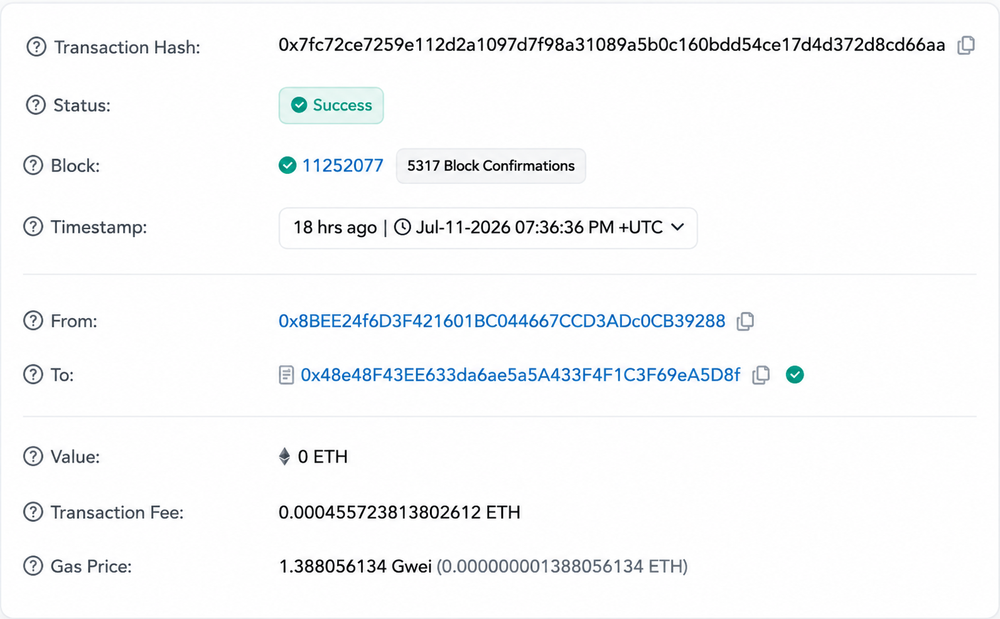
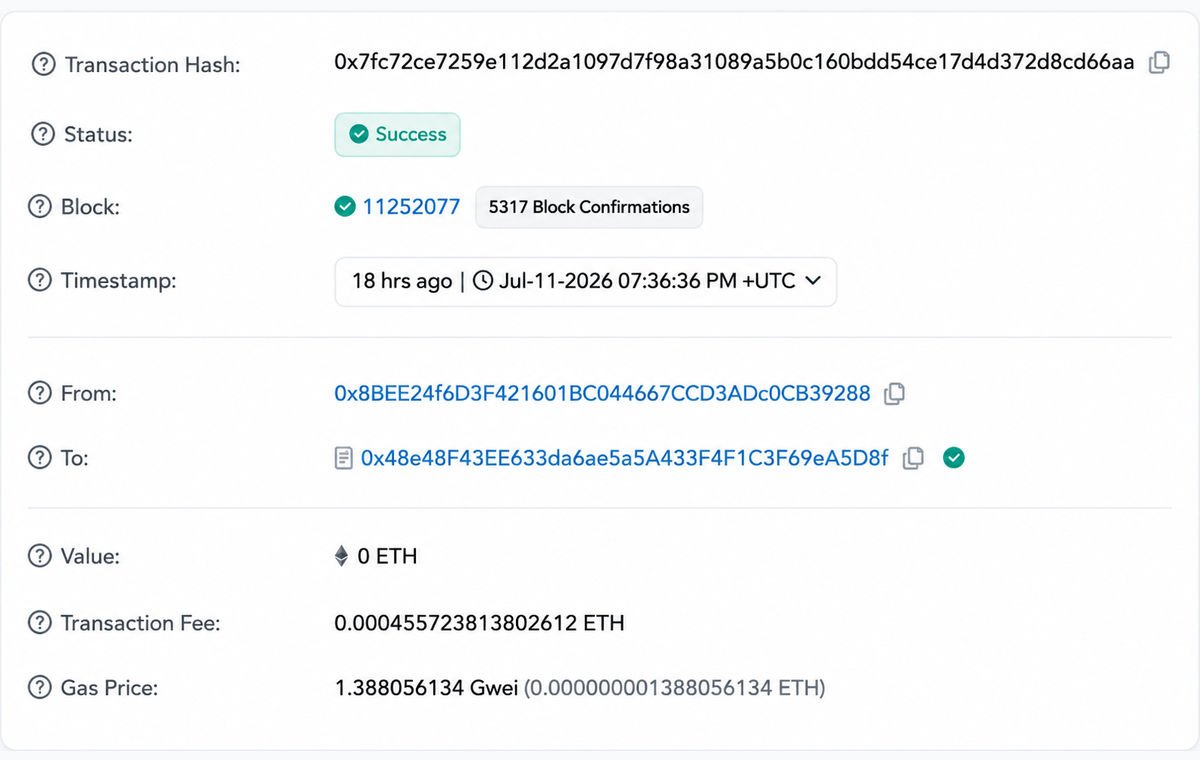
ux(landing): equal-size larger before/after screenshots

diff --git a/frontend/src/landing.css b/frontend/src/landing.css
@@ -123,7 +123,8 @@
 .lp-payslip-foot span { display: inline-flex; align-items: center; gap: 6px; font-size: 0.82rem; color: var(--green-2); font-weight: 600; }
 
 /* Before / After */
-.lp-ba { max-width: 1000px; margin: 0 auto; padding: 24px; display: grid; grid-template-columns: 1fr auto 1fr; gap: 18px; align-items: stretch; }
+.lp-ba { max-width: 1240px; margin: 0 auto; padding: 24px; display: grid; grid-template-columns: 1fr auto 1fr; gap: 22px; align-items: stretch; }
+.lp-ba-card { padding: 20px; }
 .lp-ba-arrow { color: var(--text-3); display: flex; align-items: center; justify-content: center; }
 .lp-ba-card { display: flex; flex-direction: column; gap: 10px; text-decoration: none; color: var(--text); }
 .lp-ba-head { display: flex; align-items: center; gap: 8px; color: var(--text-2); font-size: 0.9rem; font-weight: 600; }
@@ -229,4 +230,4 @@ button:focus-visible, a:focus-visible { outline: 3px solid var(--primary); outli
 /* Brand logo image + before/after screenshots */
 .lp-logo-img { height: 26px; width: auto; display: block; }
 .lp-footer-brand .lp-logo-img { height: 24px; }
-.lp-ba-shot { width: 100%; height: auto; border-radius: 12px; border: 1px solid var(--border-soft); margin: 6px 0 14px; display: block; }
+.lp-ba-shot { width: 100%; height: auto; border-radius: 12px; border: 1px solid var(--border-soft); margin: 8px 0 14px; display: block; box-shadow: 0 8px 30px rgba(0,0,0,0.35); }
